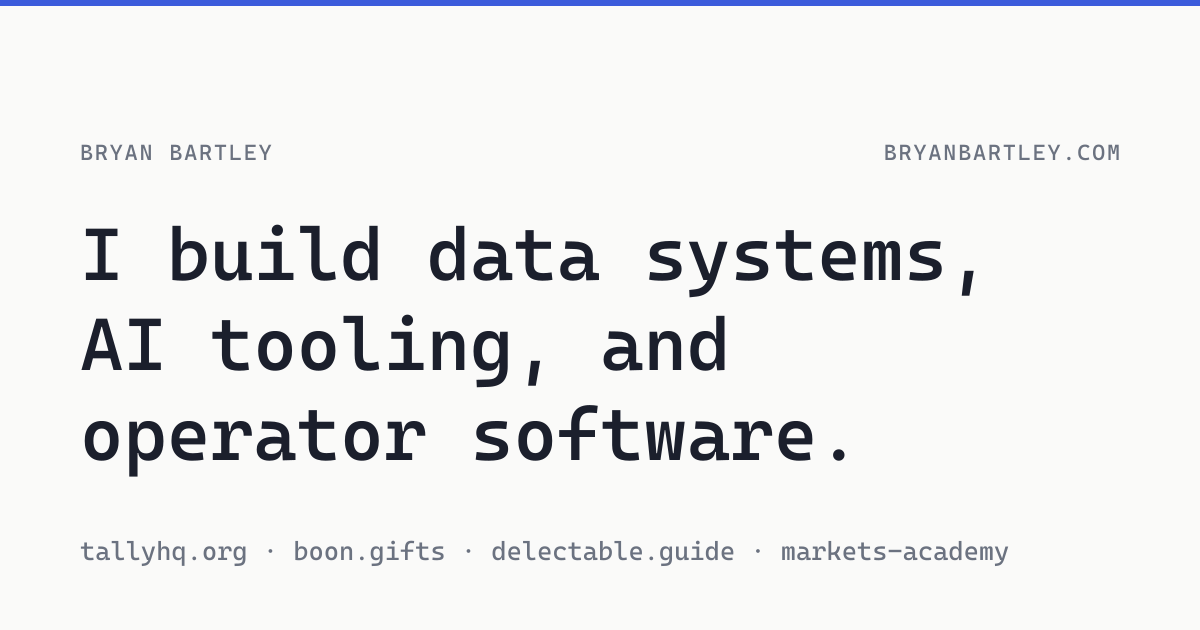
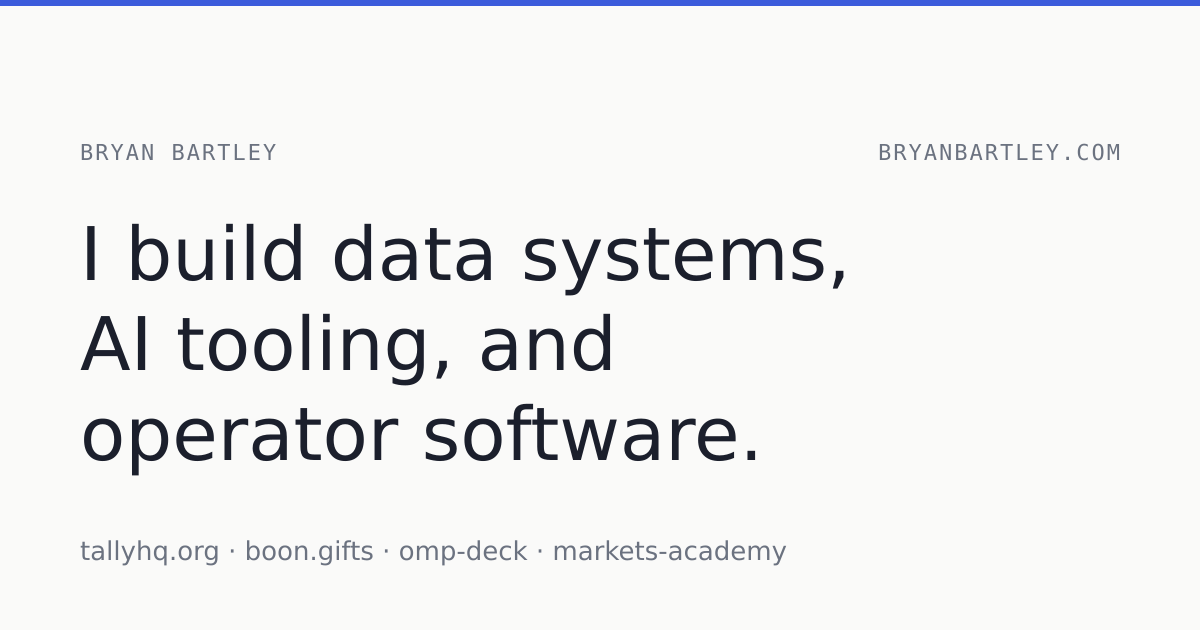
delectable-guide: mark as sunset, drop from homepage
Add a 'sunset' status to the projects schema and set delectable-guide to
it. Remove the now-stale live URL so the detail page no longer shows a
'live →' link, and drop delectable.guide from the OG image subline.
It is already off the homepage (featured: false).

Claude-Session: https://claude.ai/code/session_01UbmBFDjSSw1WNq4vyoBRnV

diff --git a/src/content.config.ts b/src/content.config.ts
@@ -7,7 +7,7 @@ const projects = defineCollection({
     title: z.string(),
     tagline: z.string(),
     year: z.number(),
-    status: z.enum(['live', 'shipped', 'paused', 'building', 'archived']),
+    status: z.enum(['live', 'shipped', 'paused', 'building', 'archived', 'sunset']),
     stack: z.array(z.string()).default([]),
     tags: z.array(z.string()).default([]),
     url: z.string().url().optional(),
